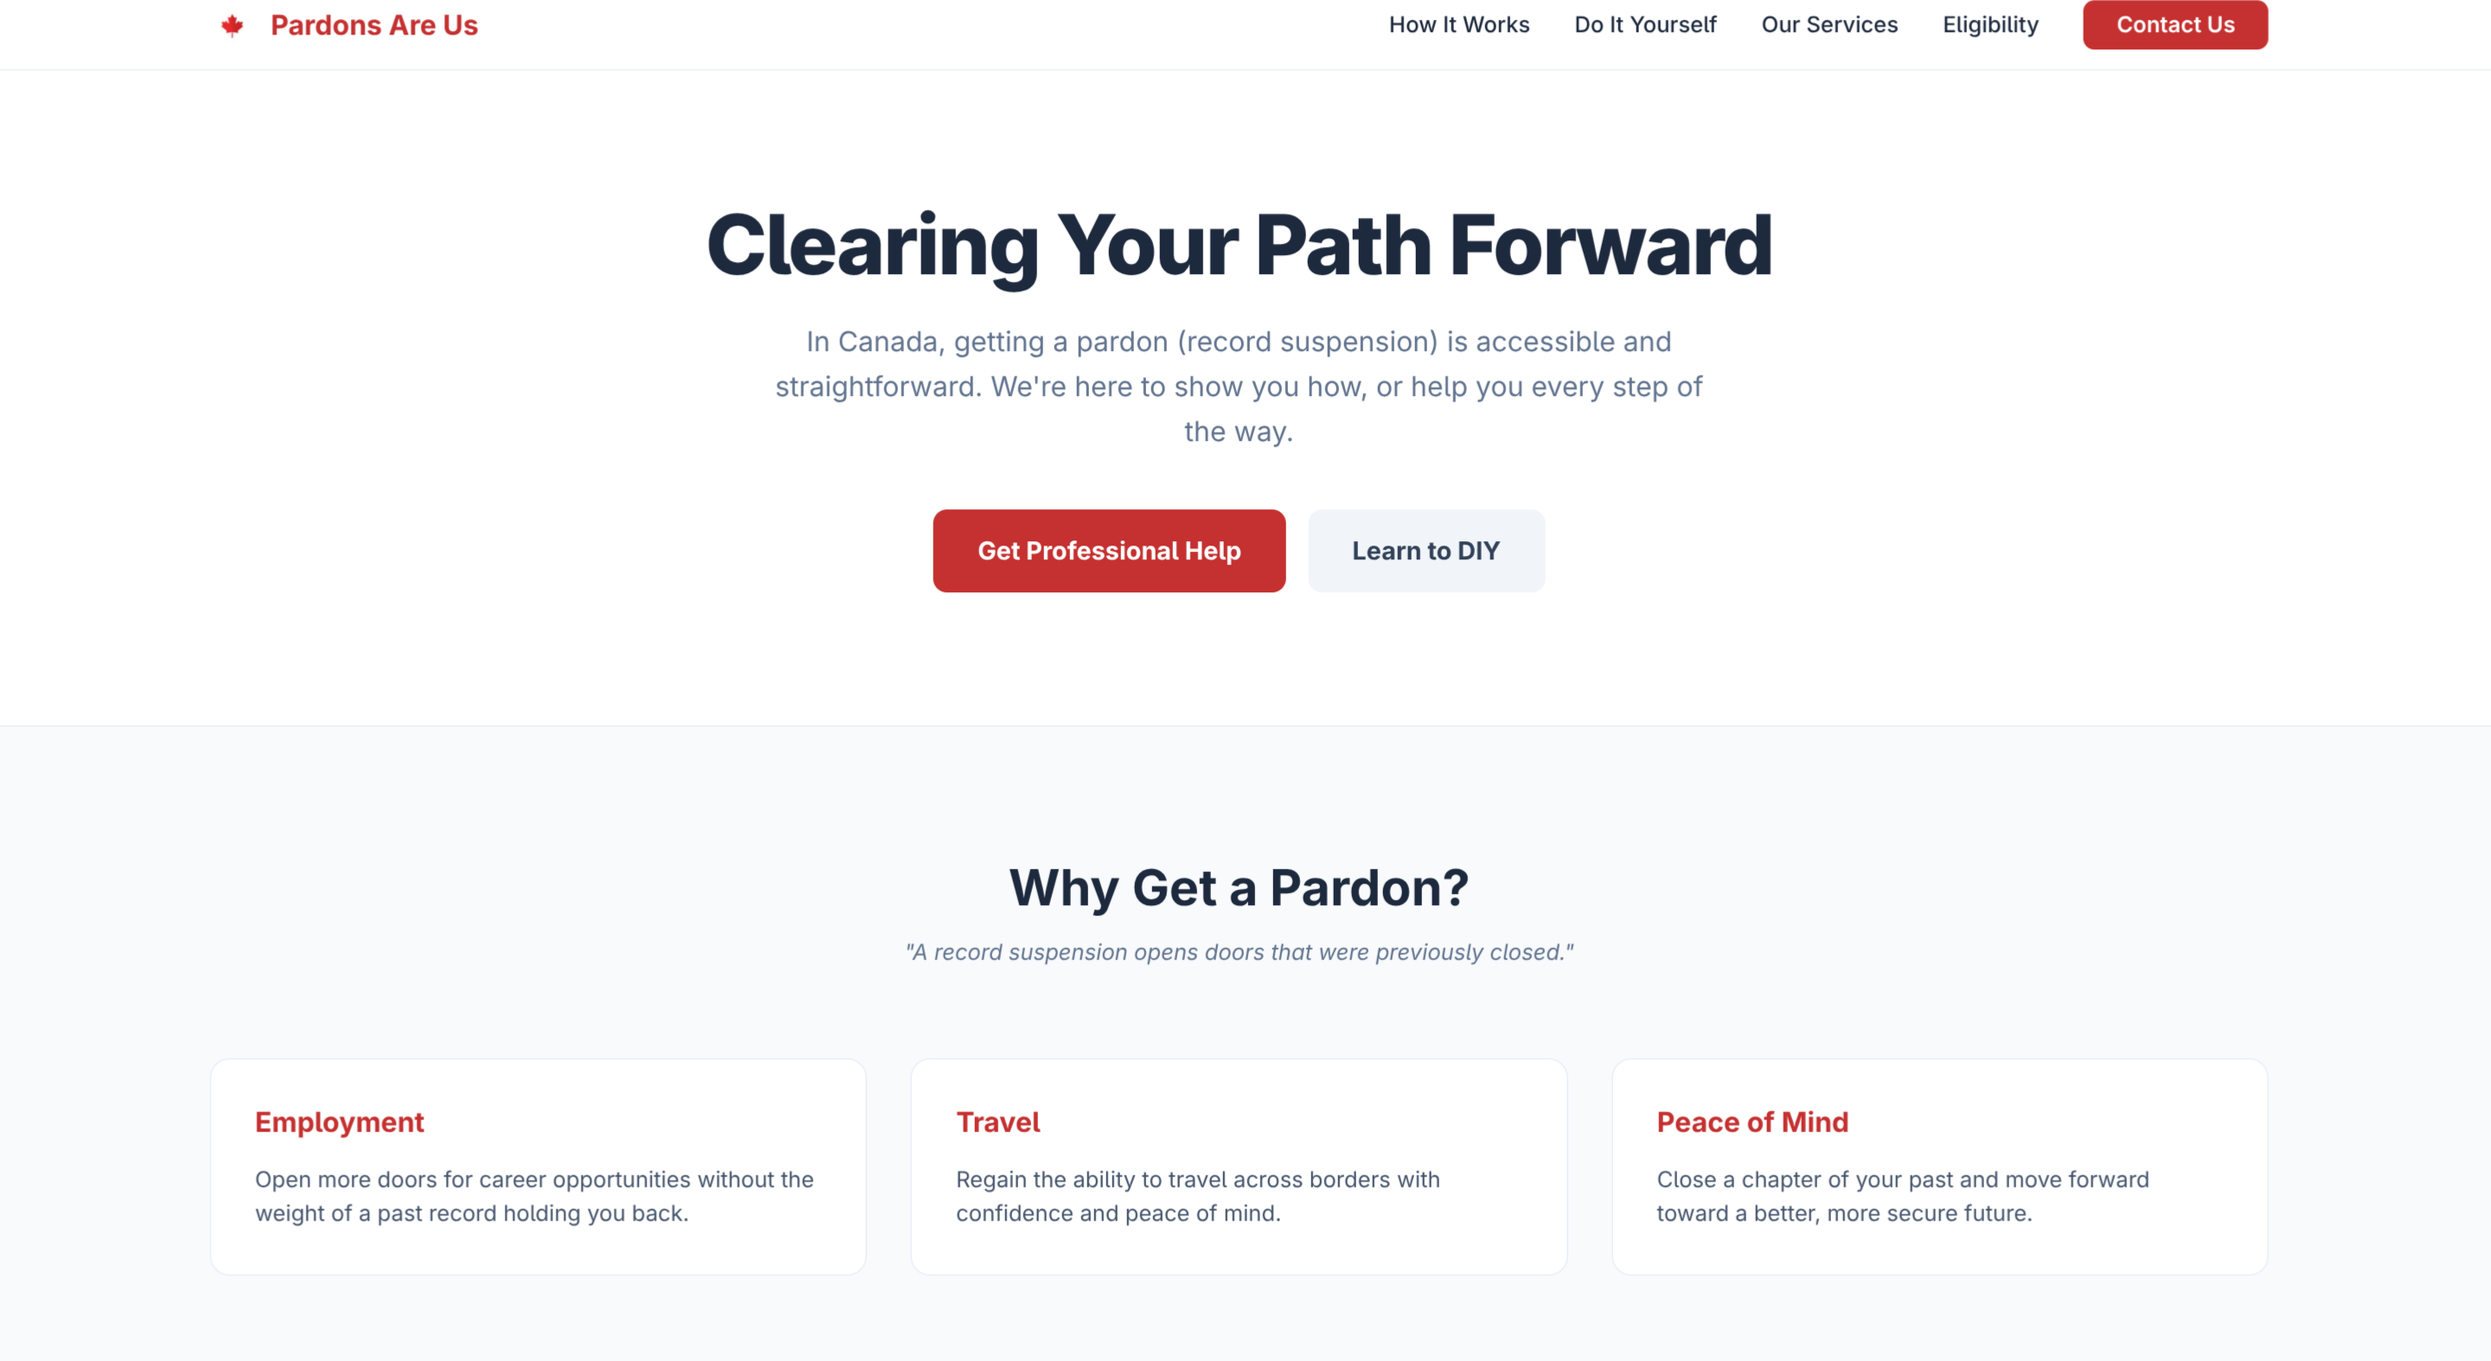
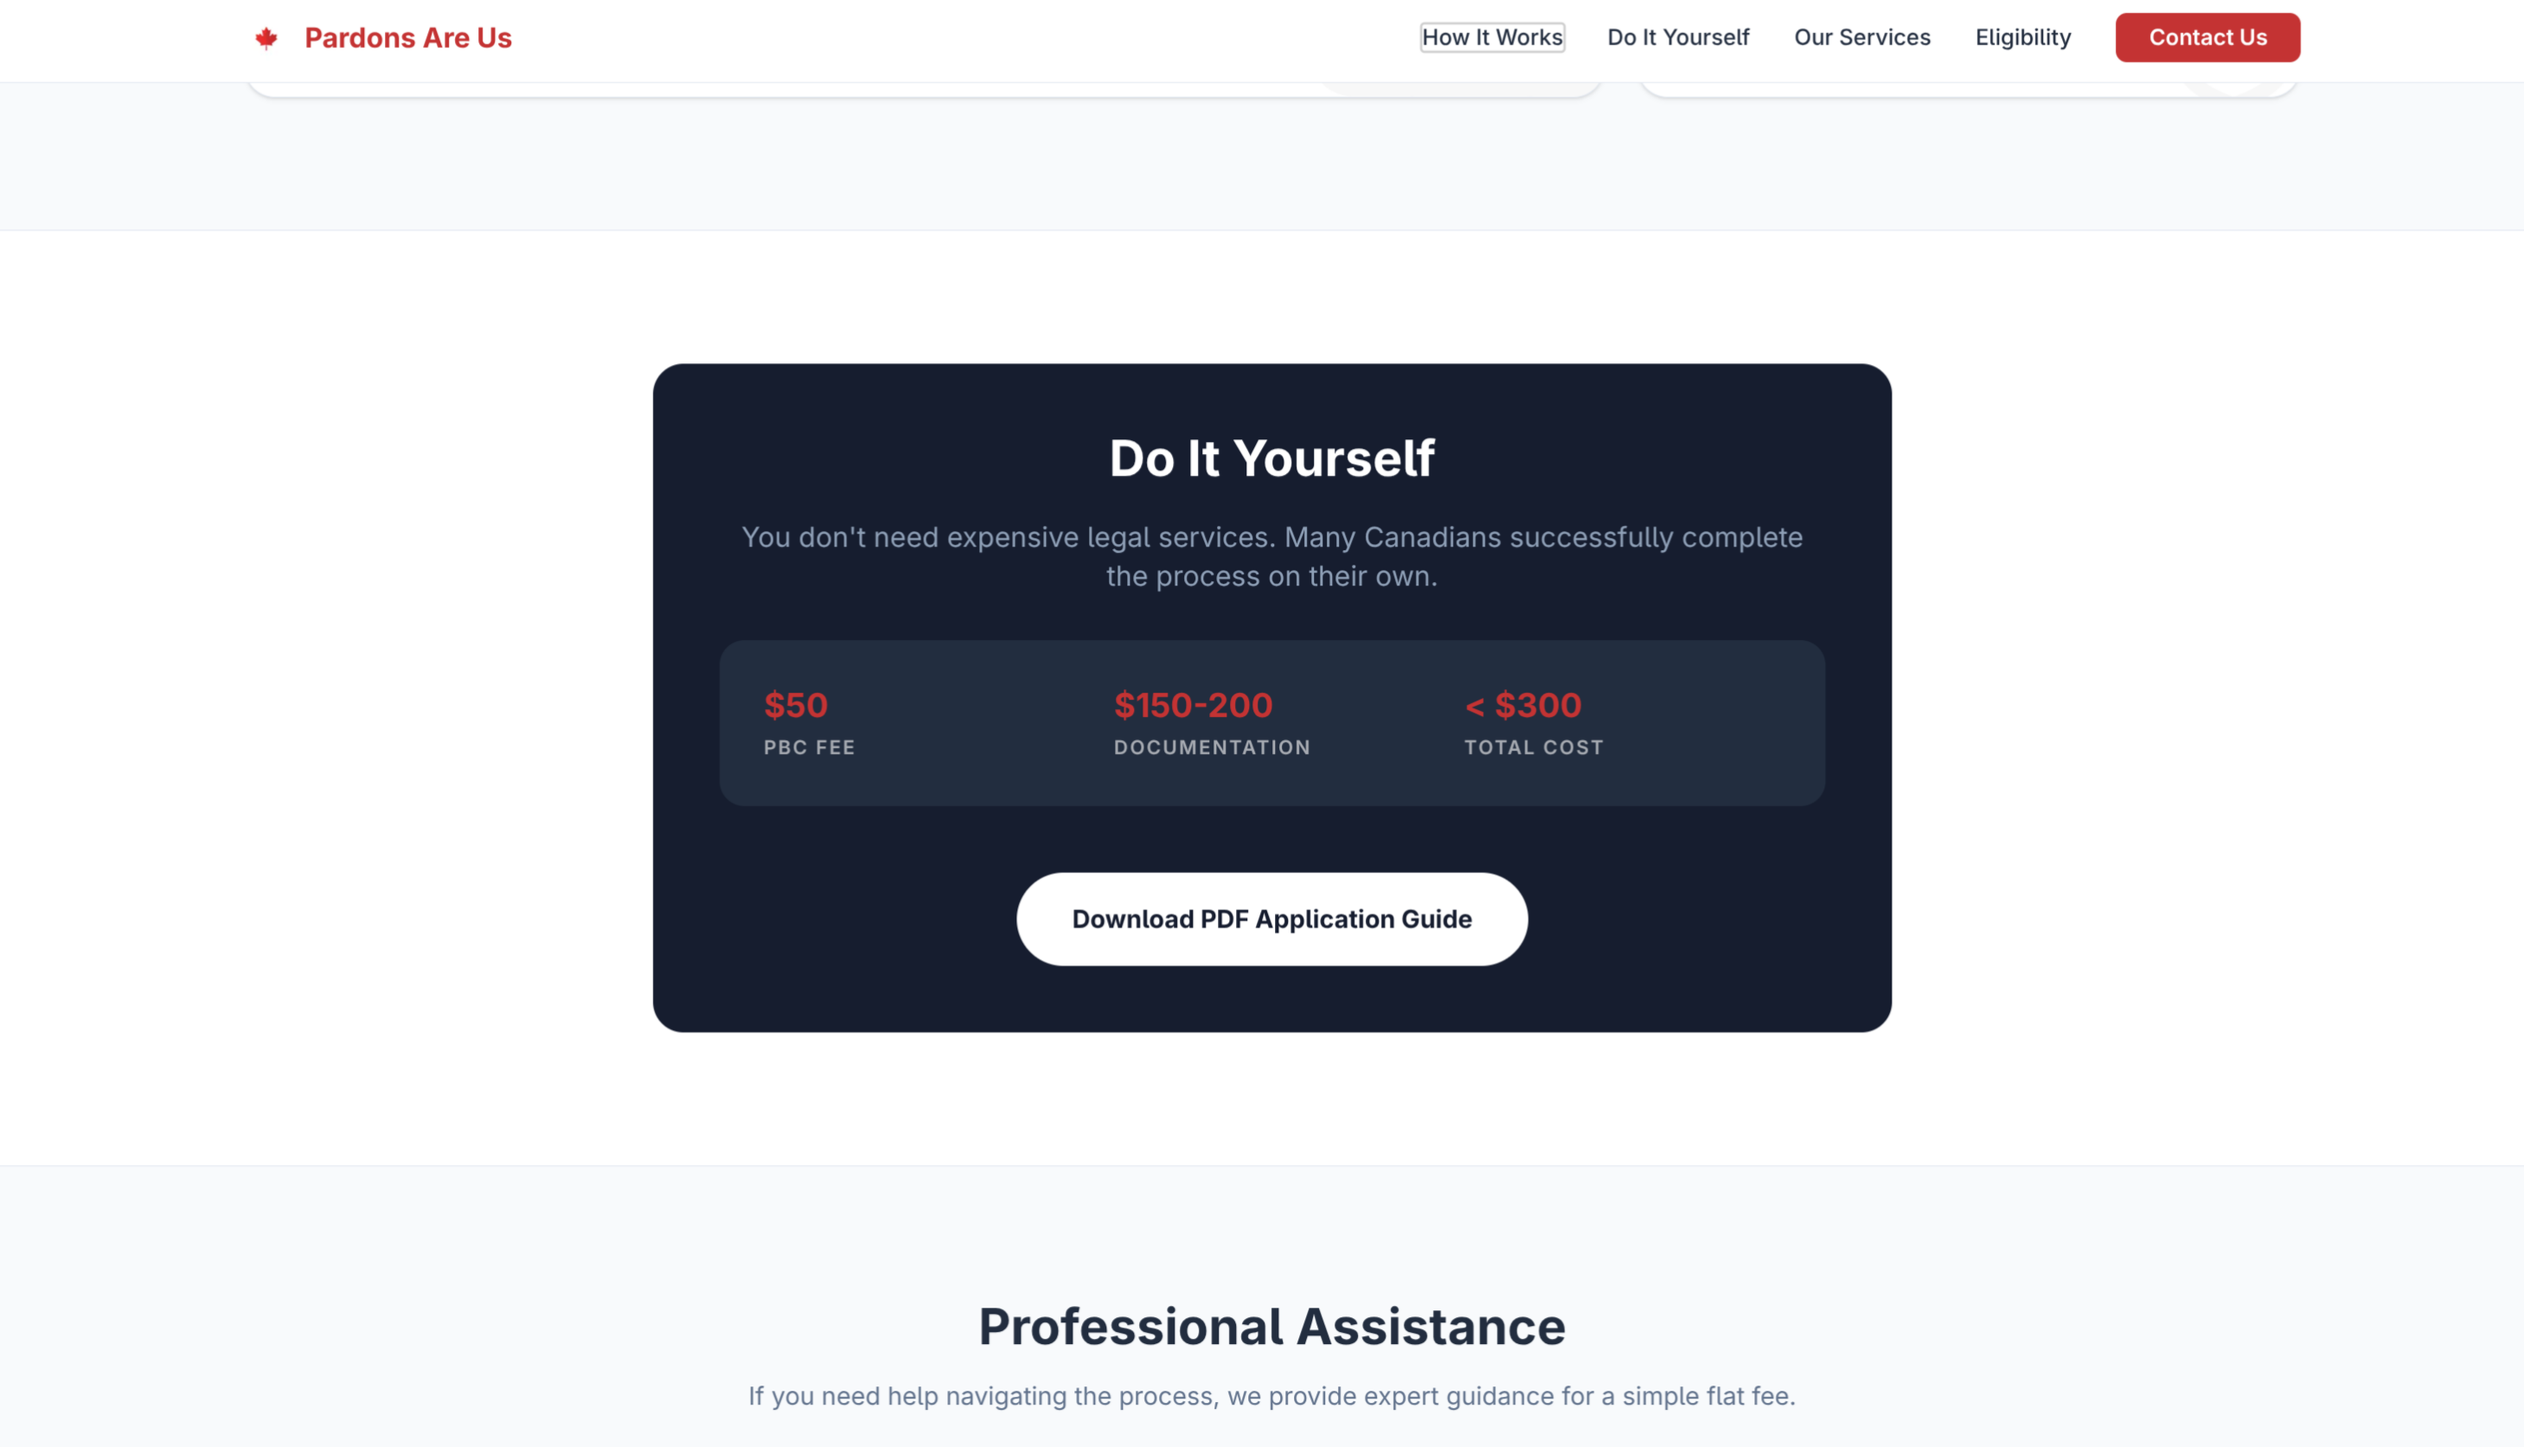
updated projects

diff --git a/src/lib/utils/projects.ts b/src/lib/utils/projects.ts
@@ -17,14 +17,38 @@ export const projects = [
 	},
 	{
 		id: 3,
-		title: 'CLock Out',
+		title: 'Invoice Pro',
+		text: 'Small business? need to invoice a customer?',
+		imagePath: '/invoicepro.png',
+		url: 'https://invoicepro.patmac.ca',
+		githubUrl: 'https://github.com/Pmacdon15/invoices',
+	},
+	{
+		id: 3,
+		title: 'Sports Tracker',
+		text: 'Have rental equipment? need to track it? we got you!',
+		imagePath: '/sportstracker.png',
+		url: 'https://sportstracker.patmac.ca',
+		githubUrl: 'https://github.com/Pmacdon15/sports-tracker-app',
+	},
+	{
+		id: 4,
+		title: 'Clock Out',
 		text: 'A time tracking app with secure authentication, organization management, and visual analytics.',
 		imagePath: '/clockout.png',
 		githubUrl: 'https://github.com/Pmacdon15/clock-out',
 		url: 'https://clockout.patmac.ca',
 	},
-	{
+		{
 		id: 4,
+		title: 'Stocks',
+		text: 'The ultimate market simulator. Real-time data, professional tools, and $10k to test your edge.',
+		imagePath: '/clockout.png',
+		githubUrl: 'https://github.com/Pmacdon15/stocks',
+		url: 'https://stocks.patmac.ca',
+	},
+	{
+		id: 5,
 		title: "Pat's Blogs",
 		text: 'A modern blog site with image, code, and text upload, and Neon database storage.',
 		imagePath: '/blogs.png',
@@ -32,7 +56,7 @@ export const projects = [
 		url: 'https://blog.patmac.ca/',
 	},
 	{
-		id: 5,
+		id: 6,
 		title: 'Days Since Last Vs Code Fork',
 		text: 'Kinda of a joke about how long we can go with out a VS Code fork',
 		imagePath: '/dayssince.png',
@@ -40,7 +64,7 @@ export const projects = [
 		url: 'https://dayssincelastvscodefork.patmac.ca/',
 	},
 	{
-		id: 6,
+		id: 7,
 		title: 'Your Next Site',
 		text: 'Need a website? We can help visit yournextsite.ca and send us a message.',
 		imagePath: '/yournextsite.png',
@@ -48,14 +72,14 @@ export const projects = [
 		url: 'https://yournextsite.ca',
 	},
 	{
-		id: 7,
+		id: 8,
 		title: 'PolyMuse Wordpress WooCommerce Plugin',
 		text: 'A custom plugin for Polymuse, enabling 3D model display and AR views on mobile devices.',
 		imagePath: '/polymuse.jpeg',
 		githubUrl: 'https://github.com/Dream-Team-Seven/polymuse-woocommerce',
 	},
 	{
-		id: 8,
+		id: 9,
 		title: "Pat's Pre-Trips",
 		text: 'A pre-trip inspection app with authentication, current and past trips, and defect listing.',
 		imagePath: '/pretrips.png',
@@ -63,14 +87,14 @@ export const projects = [
 		url: 'https://patspretrips.ca/',
 	},
 	{
-		id: 9,
+		id: 10,
 		title: 'Pat GPT',
 		text: 'An Android chat and image generator app using GPT-3 Turbo and DALL-E-3 models.',
 		imagePath: '/PatGPT.png',
 		githubUrl: 'https://github.com/Pmacdon15/PatGPT',
 	},
 	{
-		id: 10,
+		id: 11,
 		title: 'Demos',
 		text: 'A place to demo a few concepts.',
 		imagePath: '/demos.png',
@@ -78,7 +102,7 @@ export const projects = [
 		url: 'https://www.demos.patmac.ca',
 	},
 	{
-		id: 11,
+		id: 12,
 		title: 'Free QR Code Generator',
 		text: 'A modern QR code generator with URL formatting and PNG download.',
 		imagePath: '/qrcode.png',
@@ -86,7 +110,7 @@ export const projects = [
 		url: 'https://freeqrcode.patmac.ca/',
 	},
 	{
-		id: 12,
+		id: 13,
 		title: 'Nasa Media',
 		text: 'A place to see cool things from space.',
 		imagePath: '/nasamedia.png',
@@ -94,7 +118,7 @@ export const projects = [
 		githubUrl: 'https://github.com/Pmacdon15/nasa-images',
 	},
 	{
-		id: 13,
+		id: 14,
 		title: 'Pat Chat 2.0',
 		text: 'A real-time chat application built with TypeScript, Next.js, and Ably.',
 		imagePath: '/PatChat2.png',
@@ -102,14 +126,14 @@ export const projects = [
 		url: 'https://www.patchat.ca',
 	},
 	{
-		id: 14,
+		id: 15,
 		title: 'Guess The Celebrity Game',
 		text: 'An Android game developed in Java, focusing on saving and restoring state.',
 		imagePath: '/GuessingGame.png',
 		githubUrl: 'https://github.com/Pmacdon15/Guess-The-Celebrity-Game',
 	},
 	{
-		id: 15,
+		id: 16,
 		title: 'Github Status',
 		text: 'View a Github users stats or link a stats card to your Github README.md',
 		imagePath: '/GithubStats.png',
@@ -117,7 +141,7 @@ export const projects = [
 		url: 'https://gh-stats.patmac.ca/',
 	},
 	{
-		id: 16,
+		id: 17,
 		title: 'Next-Todo',
 		text: 'A full-stack Todo app with OAuth authentication, TanStack Query, and Neon PostgreSQL database.',
 		imagePath: '/todo-next.png',
@@ -125,14 +149,14 @@ export const projects = [
 		url: 'https://www.next-todo.patmac.ca/',
 	},
 	{
-		id: 17,
+		id: 18,
 		title: 'Shenanigans Mac-Server-Face',
 		text: 'A server for HID attacks, executing PowerShell and Bash scripts on target systems.',
 		imagePath: '/Shenanigans.jpeg',
 		githubUrl: 'https://github.com/Pmacdon15/MacServerFace',
 	},
 	{
-		id: 18,
+		id: 19,
 		title: 'Next Phisher',
 		text: 'A Next.js phishing framework with decoy website and customizable phishing page.',
 		imagePath: '/Shenanigans.jpeg',
